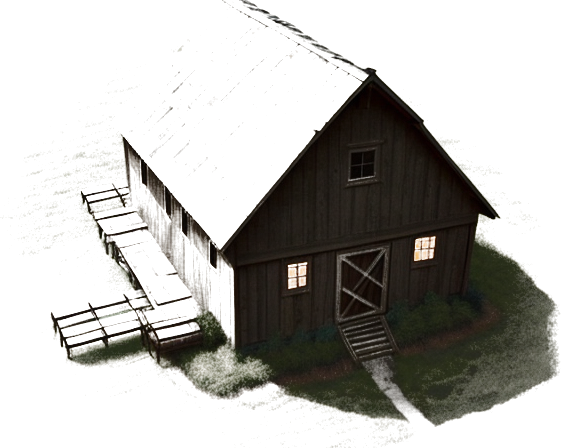
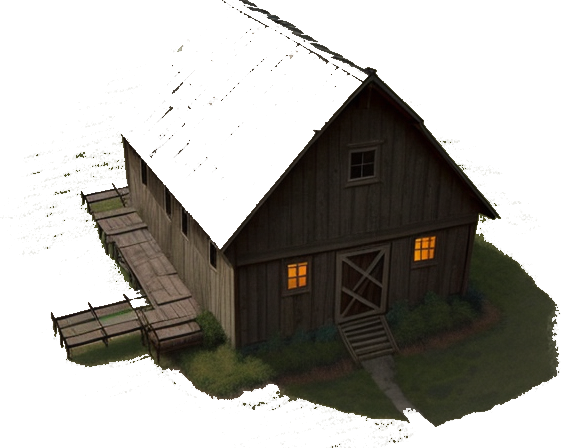
Плинь: хати перестали бути напівпрозорими
Міша спитав, чому крізь будинки видно паркан. Причина в самій вирізці:
key_flat знімає все, що СХОЖЕ КОЛЬОРОМ на тло, а стіна зрубу сірувато-бура
й тло генерації теж сіре. Через це середина стіни втрачала непрозорість
разом із тлом.

Поріг тут не рятує: підняти означає з'їсти край, опустити — лишити тло.
Тому тло тепер визначається не кольором, а ЗВʼЯЗНІСТЮ — справжнє тло
дотикається краю кадру, а дірка в стіні ні. Залив ззовні, і все, куди він
не дістався, стає непрозорим.

Напівпрозорих пікселів у будівлях було під 40%, стало менше за 2%.

Прапорець окремий і НЕ типовий навмисно: для берези заливка неприпустима,
бо просвіти між гілками — теж «дірки», і після неї дерево стає плямою.

diff --git a/tools/key_flat.py b/tools/key_flat.py
@@ -59,6 +59,42 @@ def key_flat(
     return out, bg
 
 
+def fill_holes(rgba: Image.Image, edge: int = 40) -> Image.Image:
+    """Робить непрозорим усе, що ВСЕРЕДИНІ контуру предмета.
+
+    Головне виправлення для будівель. Вирізка за різницею кольору знімає все,
+    що схоже на тло, — а стіна зрубу сірувато-бура, і тло генерації теж сіре.
+    Через це середина стіни ставала напівпрозорою разом із тлом, і крізь хату
+    було видно паркан. Поріг тут не рятує: підняти означає з'їсти край,
+    опустити — лишити тло.
+
+    Тому тло визначається не кольором, а ЗВ'ЯЗНІСТЮ: справжнє тло дотикається
+    краю кадру, а дірка в стіні — ні. Заливаємо ззовні й лишаємо непрозорим
+    усе, куди залив не дістався.
+
+    УВАГА: для дерева це неприпустимо. Просвіти між гілками — теж «дірки», і
+    після заливки береза стає суцільною плямою. Тому окремий прапорець, а не
+    типова поведінка.
+    """
+    from PIL import ImageDraw
+
+    alpha = rgba.split()[3]
+    w, h = alpha.size
+
+    # Рамка в один піксель, щоб заливу було звідки початися навіть тоді,
+    # коли предмет торкається краю кадру.
+    outside = Image.new("L", (w + 2, h + 2), 0)
+    outside.paste(alpha.point(lambda v: 255 if v > edge else 0), (1, 1))
+    ImageDraw.floodfill(outside, (0, 0), 128)
+
+    solid = outside.crop((1, 1, w + 1, h + 1)).point(
+        lambda v: 0 if v == 128 else 255
+    )
+    out = rgba.copy()
+    out.putalpha(ImageChops.lighter(alpha, solid))
+    return out
+
+
 def trim(rgba: Image.Image, keep: int = 6) -> Image.Image:
     box = rgba.split()[3].point(lambda v: 255 if v > keep else 0).getbbox()
     return rgba.crop(box) if box else rgba
@@ -72,12 +108,18 @@ def main() -> None:
     ap.add_argument("--high", type=int, default=60, help="вище — предмет")
     ap.add_argument("--blur", type=float, default=0.5)
     ap.add_argument("--no-trim", action="store_true")
+    ap.add_argument(
+        "--fill-holes", action="store_true",
+        help="залити напівпрозорі дірки всередині контуру (будівлі, НЕ дерева)",
+    )
     args = ap.parse_args()
 
     src = args.src if os.path.isabs(args.src) else os.path.join(ROOT, args.src)
     dst = args.dst if os.path.isabs(args.dst) else os.path.join(ROOT, args.dst)
 
     out, bg = key_flat(Image.open(src), args.low, args.high, args.blur)
+    if args.fill_holes:
+        out = fill_holes(out)
     if not args.no_trim:
         out = trim(out)
 
